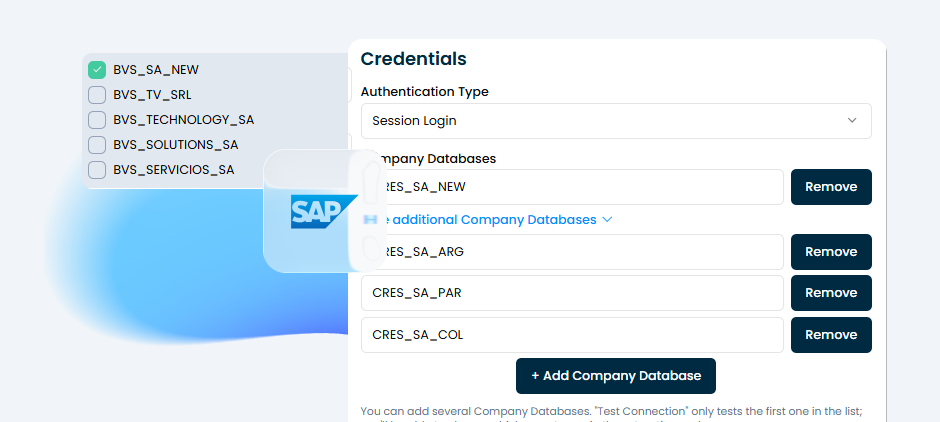
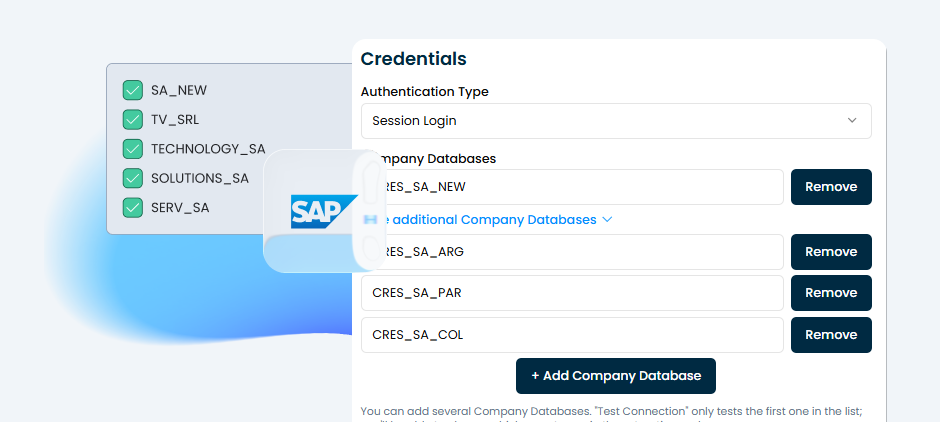
feat: implement release notes system with dynamic sidebar ordering and interactive versioned MDX pages

diff --git a/docs/releasenotes/slider/Sliderprimarry.tsx b/docs/releasenotes/slider/Sliderprimarry.tsx
@@ -3,9 +3,15 @@ import styles from "./slider.module.css";
 import { CaralIcon } from "iconcaral2";
 
 
+type QuickLink = {
+  doc: string;
+  text: string;
+};
+
 type Entrada = {
   title_slide: string;
   description: string;
+  quicklinks?: QuickLink[];
 };
 
 type SlidereleceProps = {
@@ -56,6 +62,15 @@ export function Sliderelece({ version, items, title }: SlidereleceProps) {
             }}> V {title} </h2>
             <h1>{items[current].title_slide}</h1>
             <p style={{ whiteSpace: 'pre-wrap' }}>{items[current].description}</p>
+            {items[current].quicklinks && (
+              <div style={{ marginTop: '1rem', display: 'flex', gap: '10px', flexWrap: 'wrap' }}>
+                {items[current].quicklinks.map((ql, idx) => (
+                  <a key={idx} href={ql.doc} className="button button--outline button--primary button--sm" style={{ textDecoration: 'none' }}>
+                    {ql.text}
+                  </a>
+                ))}
+              </div>
+            )}
           </div>
           <div className={styles.slider_bottom}>
             {current === itemnum ? (
@@ -208,6 +223,15 @@ export function Slidersimple({ version, items }: SlidereleceProps) {
         <div className={styles.contenet} >
           <h1>{items[current].title_slide}</h1>
           <p style={{ whiteSpace: 'pre-wrap' }}>{items[current].description}</p>
+          {items[current].quicklinks && (
+            <div style={{ marginTop: '1rem', display: 'flex', gap: '10px', flexWrap: 'wrap' }}>
+              {items[current].quicklinks.map((ql, idx) => (
+                <a key={idx} href={ql.doc} className="button button--outline button--primary button--sm" style={{ textDecoration: 'none' }}>
+                  {ql.text}
+                </a>
+              ))}
+            </div>
+          )}
         </div>
 
       </div>

diff --git a/docs/releasenotes/slider/list.tsx b/docs/releasenotes/slider/list.tsx
@@ -36,6 +36,16 @@ export default function Listarelece({ news, version }) {
                         </Titleicon>
                         <p style={{ whiteSpace: 'pre-wrap' }}>{item.description}</p>
 
+                        {item.quicklinks && (
+                            <div style={{ marginTop: '1rem', marginBottom: '1.5rem', display: 'flex', gap: '10px', flexWrap: 'wrap' }}>
+                                {item.quicklinks.map((ql, idx) => (
+                                    <a key={idx} href={`/docs/documentation${ql.doc}`} className="button button--outline button--primary button--sm" style={{ textDecoration: 'none' }}>
+                                        {ql.text}
+                                    </a>
+                                ))}
+                            </div>
+                        )}
+
                         <div style={{ textAlign: "center" }}>
                             <img src={impg} alt={item.title_slide} />
                         </div>

diff --git a/docusaurus.config.ts b/docusaurus.config.ts
@@ -57,6 +57,20 @@ const config: Config = {
       {
         docs: {
           sidebarPath: './sidebars.ts',
+          async sidebarItemsGenerator({ defaultSidebarItemsGenerator, ...args }) {
+            const sidebarItems = await defaultSidebarItemsGenerator(args);
+            if (args.item.dirName === 'releasenotes') {
+              const indexItemIndex = sidebarItems.findIndex(item => item.type === 'doc' && item.id === 'releasenotes/index');
+              if (indexItemIndex !== -1) {
+                const indexItem = sidebarItems.splice(indexItemIndex, 1)[0];
+                sidebarItems.reverse();
+                sidebarItems.unshift(indexItem);
+                return sidebarItems;
+              }
+              return sidebarItems.reverse();
+            }
+            return sidebarItems;
+          },
           // Please change this to your repo.
           // Remove this to remove the "edit this page" links.
 
